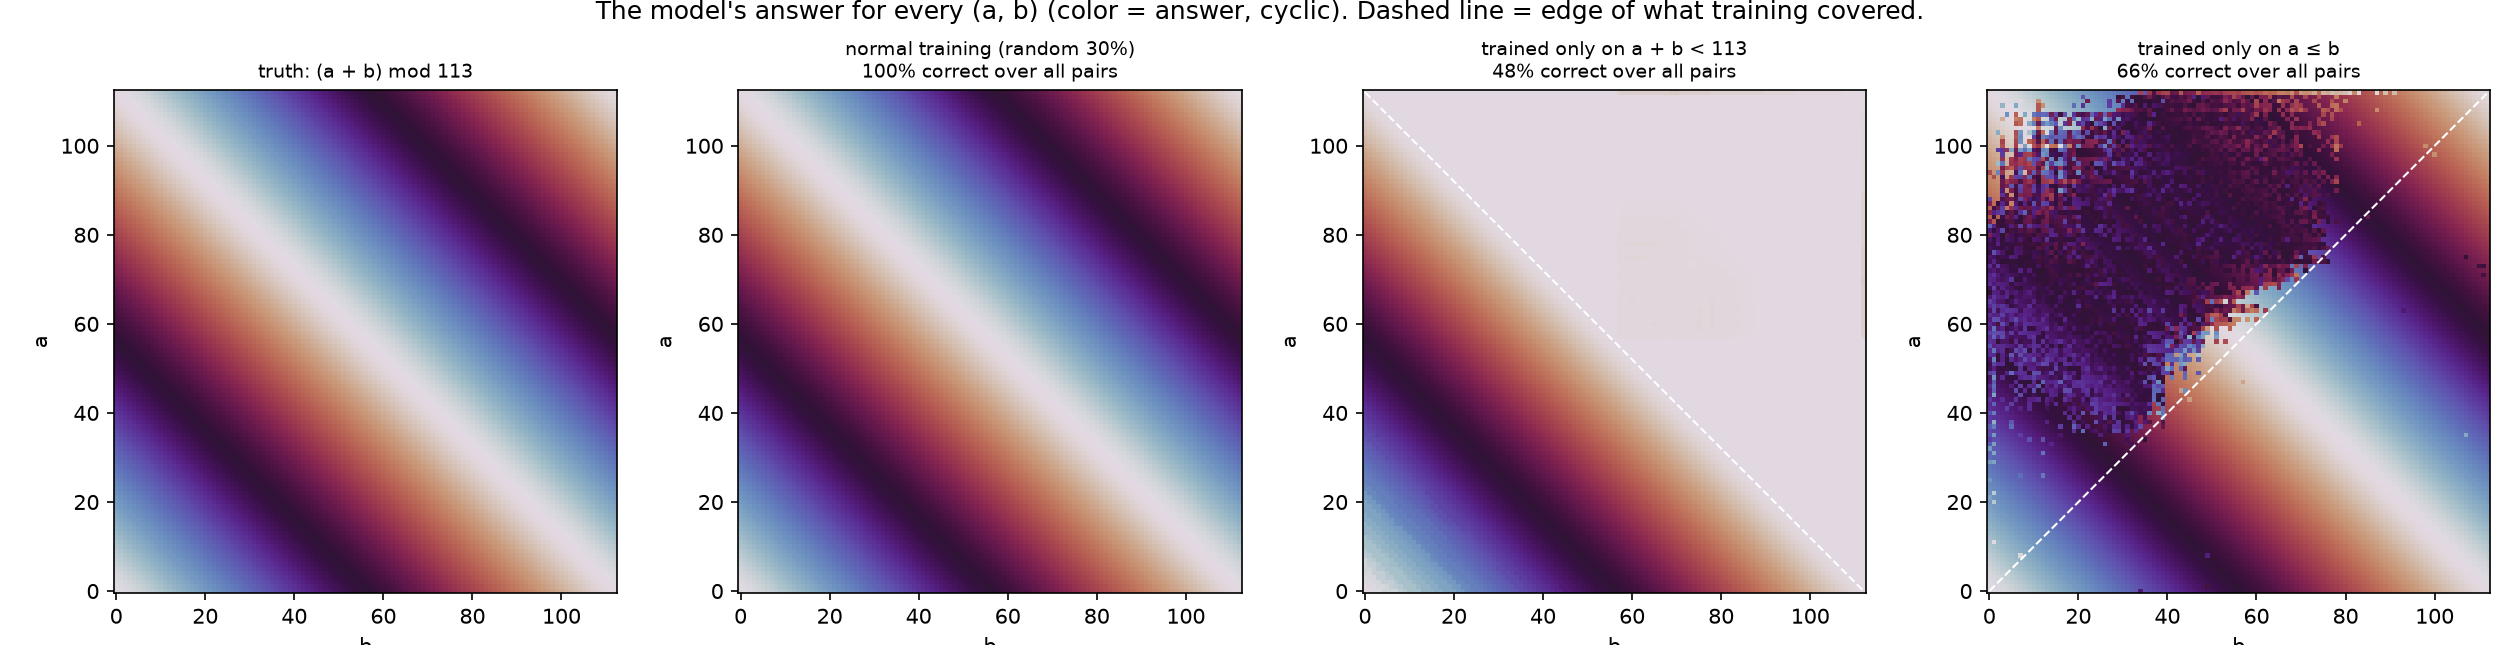
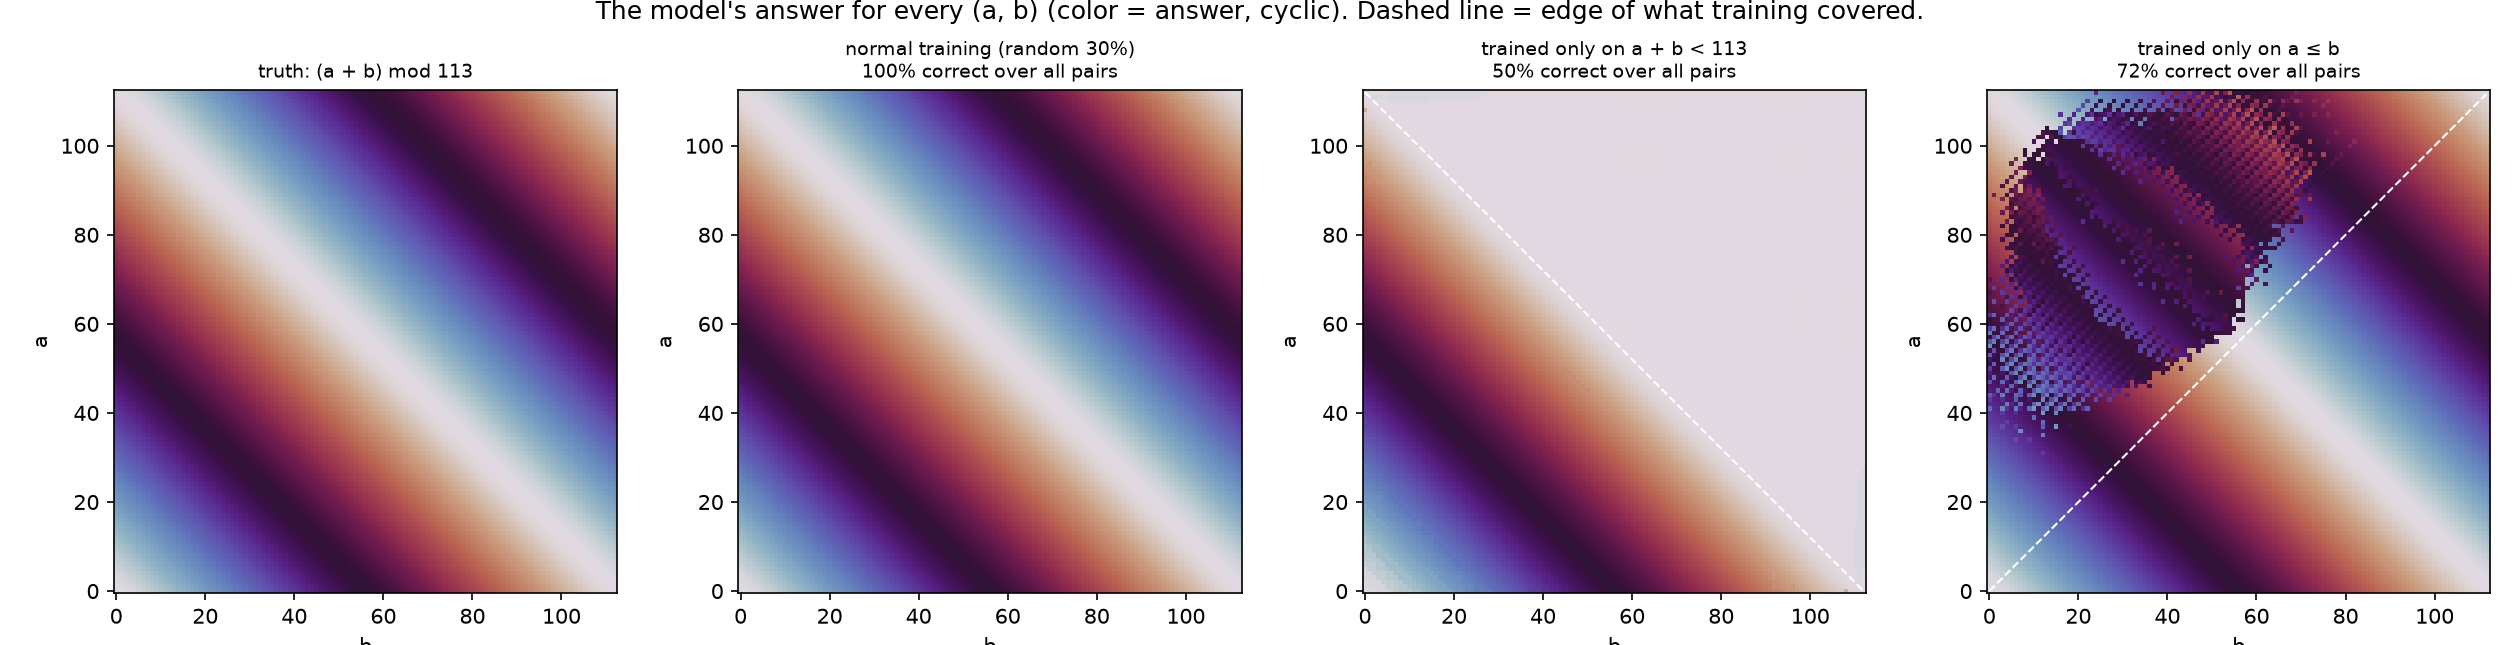
Structured-holdout results: number line without wraparound, no commutativity, never-seen answer recovered 0%→100% by readout repair; README

Changed region(s): [[0.7738, 0.093, 0.9286, 0.6822], [0.5881, 0.093, 0.619, 0.124]]

diff --git a/src/grokking/ood.py b/src/grokking/ood.py
@@ -142,7 +142,7 @@ def main():
     Path("runs/ood_summary.json").write_text(json.dumps(rows))
 
     # ---- Figure 1: in-distribution vs OOD accuracy per split (dots = seeds) ----
-    fig, ax = plt.subplots(figsize=(11, 4.8))
+    fig, ax = plt.subplots(figsize=(12, 5.4))
     for i, split in enumerate(SPLITS):
         rs = [r for r in rows if r["split"] == split]
         for j, (key_, col, lab) in enumerate([("test_id_acc", "tab:blue", "held-out pairs, same kind as training"),
@@ -156,15 +156,19 @@ def main():
             ax.text(xpos, sum(vals) / len(vals) + 0.03, f"{sum(vals) / len(vals):.0%}", ha="center", fontsize=8)
         if split == "holdout_answer" and rs:
             vals = [r["repair_ood_acc"] for r in rs]
-            ax.scatter([i + 0.18] * len(vals), vals, marker="*", s=120, color="gold", edgecolor="black",
-                       zorder=4, label="after rebuilding c₀'s readout row from the clock")
+            xpos = i + 0.5 * 0.36 + 0.36
+            ax.bar(xpos, sum(vals) / len(vals), 0.34, color="gold", edgecolor="black",
+                   label="never-seen answer, after rebuilding its readout row from the clock (no new data)")
+            ax.scatter([xpos] * len(vals), vals, color="black", s=12, zorder=3)
+            ax.text(xpos, sum(vals) / len(vals) + 0.03, f"{sum(vals) / len(vals):.0%}", ha="center", fontsize=8)
     ax.axhline(1 / P, color="gray", ls=":", lw=1)
     ax.set_xticks(range(len(SPLITS)), [NICE[s] for s in SPLITS], fontsize=9)
     ax.set(ylabel="accuracy (final, step 20k / 40k)", ylim=(0, 1.15),
            title="Does a grokked transformer learn the clock or the table? (3 seeds each)")
-    ax.legend(fontsize=8, loc="upper right")
+    ax.legend(fontsize=8, loc="upper center", bbox_to_anchor=(0.5, -0.16), ncol=1, frameon=False)
+    ax.set_xlim(-0.6, len(SPLITS) - 0.1)
     fig.tight_layout()
-    fig.savefig("figures/ood_summary.png", dpi=150)
+    fig.savefig("figures/ood_summary.png", dpi=150, bbox_inches="tight")
 
     # ---- Figure 2: OOD accuracy over training ----
     fig, axes = plt.subplots(1, 4, figsize=(17, 3.8), sharey=True)
@@ -177,6 +181,7 @@ def main():
             ln, = ax.plot(h["step"], h["test_acc"], lw=1.2, label=f"seed {seed}: same-kind test")
             ax.plot(h["step"], h["ood_acc"], lw=1.2, ls="--", color=ln.get_color(), label=f"seed {seed}: OOD")
         ax.set(title=NICE[split].replace("\n", " "), xlabel="step")
+        ax.set_xticks([0, 5000, 10000, 15000, 20000], ["0", "5k", "10k", "15k", "20k"])
         ax.grid(alpha=0.3)
     axes[0].set_ylabel("accuracy")
     axes[0].legend(fontsize=7)

diff --git a/README.md b/README.md
@@ -13,7 +13,21 @@ Parts 1–2 reproduce Nanda et al. 2023 ([arXiv 2301.05217](https://arxiv.org/ab
 Part 3 is our own experiment: we searched for prior work on these structured holdouts and didn't find it
 (see *Prior work* at the end of Part 3).
 
-<!-- RESULTS-TLDR -->
+**Results in one table.** Each structured split trains on exactly 3,830 pairs (same as normal), 3 seeds each.
+
+| Trained without… | Same-kind test pairs | The never-seen kind | Verdict |
+|---|---|---|---|
+| (normal random 30%) | 100% (3/3 seeds) | n/a | groks at step 4.5k / 6.6k / 6.9k |
+| any number in the **first slot** (20 numbers) | 100% | **100%** (3/3) | clock: transfers across positions |
+| any **wraparound** (only a + b < 113) | 97% | **0%** (3/3) | **number line**: answers 112 for 89–100% of wraparound pairs |
+| any **a > b** (only a ≤ b) | 100% | **34%** (27–44%) | table: right only near the diagonal |
+| one **answer c₀** as a label | 100% | **0%** (3/3) | clock, but its readout row is deleted. **Rebuilding it from the other 112 rows → 100%** (3/3), with no new data |
+
+**Takeaway:** a grokked network learns the simplest rule *that its training data forces*, not "the" rule. When
+the data never shows a wraparound, ordinary addition is just as consistent and it learns that instead. When
+every answer is seen, it learns a real clock. That clock even computes answers it was never trained to output,
+but weight decay deletes the unused readout row, so the knowledge is invisible until you put the row back.
+
 
 ---
 
@@ -67,7 +81,61 @@ memorized table) gets erased by weight decay around steps 3k–4.5k, and that's 
 
 ![progress measures](figures/main_progress_measures.png)
 
-<!-- PART3 -->
+## Part 3 (new): Clock or table? Structured holdouts
+
+A random 30% split can't tell "learned the rule" apart from "learned a table that fills its own gaps",
+because the test pairs look just like the training pairs. So we removed whole *kinds* of pairs from training
+and tested on exactly those. Every split trains on the same 3,830 pairs as `main`, for 20k steps, with 3 seeds
+(the seed sets both the starting weights and which pairs are drawn).
+
+![summary](figures/ood_summary.png)
+
+![answer maps](figures/ood_answer_maps.png)
+
+**1. Number never in the first slot → 100%.** 20 numbers only ever appear as `b`. The model still gets every
+`a = held-out number` pair right, in all 3 seeds, within ~100 steps of grokking the normal pairs. The clock is a
+property of the token's embedding, and the attention layer reads it from either position.
+
+**2. No wraparound → it learns a number line, not a clock.** Trained only on a + b < 113, the data is equally
+consistent with ordinary addition, and that's what the network learns. Its embedding sits on the *lowest*
+frequencies (k = 1, 2: a smooth line, 68–78% of the embedding, in all 3 seeds) instead of a few mid/high
+clock frequencies. On wraparound pairs it gets 0% and outputs the biggest number it has, **112**, for 98%, 100%
+and 44% of them (≥ 100 for 89–100%). It is doing addition that saturates at the top instead of wrapping. It also
+never fully fits its own training set (99%) and its test accuracy keeps flickering. A number line is a worse fit
+for this vocabulary than a clock, but nothing in the data pushes it off the line.
+
+**3. Only a ≤ b → no commutativity.** Held-out a ≤ b pairs: 100%. Swapped pairs (a > b): 27–44%. The
+correct ones are close to the diagonal (mean a − b ≈ 18–30 vs ≈ 44 for the wrong ones). The wrong answers are
+not a − b, b − a, 2a or 2b. They cluster at a few fixed offsets. The architecture has separate position
+embeddings, so "a + b = b + a" isn't built in, and the model only extrapolates a little past the data.
+
+**4. One answer never a label → the circuit knows it, the readout doesn't.** Normal pairs: 100%. The 113 pairs
+that sum to c₀: 0%, in all 3 seeds. Weight decay shrinks c₀'s unembedding row to ~10⁻⁶ of a normal row, because
+nothing ever asks for it. But the clock predicts what that row should be: each column of W_U is a few cos/sin
+waves over the answers. We fit those waves on the other 112 rows (fit R² 0.98–0.99), write the value at c₀
+into the missing row, and re-score:
+
+| | Never-seen answer | Everything else |
+|---|---|---|
+| Trained model | 0% | 100% |
+| Row rebuilt from the clock fit | **100%** (3/3 seeds) | 100% (unchanged) |
+| Control: row = average of neighbours c₀ ± 1 | 0% (3/3) | 100% |
+
+So the input side and the MLP already compute the right angle for sums the model was never trained to output.
+Only the last lookup row was missing. The neighbour-average control fails because one step at frequency k turns the
+clock by k/113 of a circle. Above k ≈ 28 that's more than a quarter turn, so c₀ ± 1 point away from c₀ and their
+average has the wrong sign. Every run used such frequencies (43 and 55; 34 and 46; 48 and 53).
+
+![OOD curves](figures/ood_curves.png)
+
+**Control: weight decay 0.** Same as `main` with `--wd 0`: it memorizes, the weight norm grows to 70.9, and
+test accuracy stays at 8.5% through 20k steps. No grokking.
+
+**Prior work.** We searched for these structured holdouts on grokked modular addition and didn't find them.
+We also dropped two ideas because they were already published (what picks the frequencies,
+and grokking-time scaling laws). "Not found" is not "first ever". If you
+know of a paper that does this, please open an issue.
+
 
 ---
 
@@ -94,7 +162,8 @@ uv run python -m grokking.ood                              # analyse it
 
 ## Limitations
 
-- One architecture, one modulus (113), one training-set size (3,830 pairs). The structured-split results use 3 seeds each.
+- One architecture (1 layer, no LayerNorm), one modulus (113), one training-set size (3,830 pairs). Structured splits: 3 seeds each, 20k steps.
+- `nowrap`/`triangle` sample 3,830 of a 6,441-pair pool, so they are denser inside their pool than the random split.
 - The init-scale comparison in Part 1 is one seed per setting.
 - Neuron-team ablations zero neurons rather than mean-ablating them, so they can overstate each team's importance.
 
